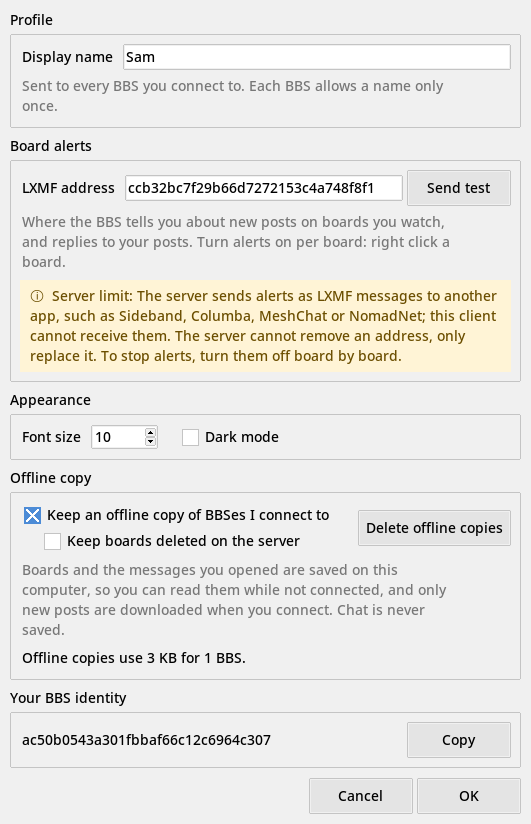
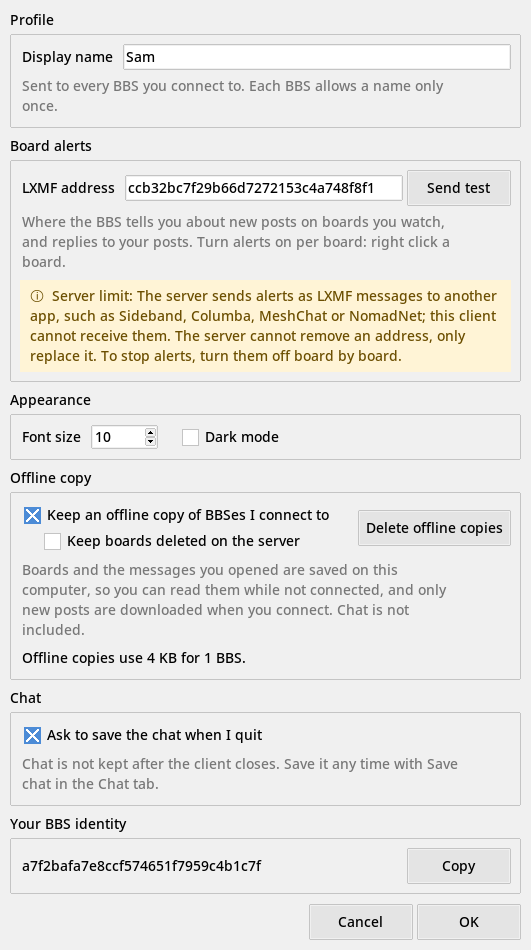
add: Setting to turn off the save chat question on quit
- Settings > Chat: Ask to save the chat when I quit, on by default
- settings screenshot shows the new section
- version 0.8.4

diff --git a/retibbs_gui/gui.py b/retibbs_gui/gui.py
@@ -385,14 +385,25 @@ class SettingsDialog(Dialog):
         ttk.Label(
             copy, style="Muted.TLabel", wraplength=440, justify="left",
             text="Boards and the messages you opened are saved on this computer, so you can read them while not "
-                 "connected, and only new posts are downloaded when you connect. Chat is never saved.",
+                 "connected, and only new posts are downloaded when you connect. Chat is not included.",
         ).grid(row=2, column=0, columnspan=2, sticky="w", pady=(4, 0))
         self.usage_label = ttk.Label(copy)
         self.usage_label.grid(row=3, column=0, columnspan=2, sticky="w", pady=(4, 0))
         self.update_copy_widgets()
 
+        chat = ttk.LabelFrame(body, text="Chat", padding=8)
+        chat.grid(row=4, column=0, sticky="ew", pady=(8, 0))
+        self.ask_save_var = tk.BooleanVar(value=app.settings["ask_save_chat"])
+        ttk.Checkbutton(chat, text="Ask to save the chat when I quit", variable=self.ask_save_var).grid(
+            row=0, column=0, sticky="w"
+        )
+        ttk.Label(
+            chat, style="Muted.TLabel", wraplength=440, justify="left",
+            text="Chat is not kept after the client closes. Save it any time with Save chat in the Chat tab.",
+        ).grid(row=1, column=0, sticky="w", pady=(4, 0))
+
         who = ttk.LabelFrame(body, text="Your BBS identity", padding=8)
-        who.grid(row=4, column=0, sticky="ew", pady=(8, 0))
+        who.grid(row=5, column=0, sticky="ew", pady=(8, 0))
         ttk.Label(who, text=app.identity.hash.hex()).pack(side="left")
         ttk.Button(who, text="Copy", command=lambda: app.copy(app.identity.hash.hex())).pack(side="right")
         self.buttons()
@@ -456,6 +467,7 @@ class SettingsDialog(Dialog):
             cache.delete_all()
         settings["offline_copy"] = copying
         settings["keep_deleted_boards"] = self.keep_var.get()
+        settings["ask_save_chat"] = self.ask_save_var.get()
         settings.save()
         app = self.app
         if copying != was_copying:
@@ -1051,7 +1063,7 @@ class App:
         return True
 
     def quit(self):
-        if self.chat_unsaved:
+        if self.chat_unsaved and self.settings["ask_save_chat"]:
             answer = messagebox.askyesnocancel(
                 APP_TITLE, "Save the chat before quitting? It is not kept after the client closes.", parent=self.root
             )

diff --git a/retibbs_gui/prefs.py b/retibbs_gui/prefs.py
@@ -6,7 +6,7 @@ import os
 CONFIG_DIR = os.path.join(os.environ.get("XDG_CONFIG_HOME") or os.path.expanduser("~/.config"), "retibbs-gui")
 DEFAULTS = {
     "theme": "light", "font_size": 10, "window": "", "sash": 0, "display_name": "", "alert_address": "",
-    "offline_copy": False, "keep_deleted_boards": False, "last_server": "",
+    "offline_copy": False, "keep_deleted_boards": False, "last_server": "", "ask_save_chat": True,
 }
 
 

diff --git a/retibbs_gui/__init__.py b/retibbs_gui/__init__.py
@@ -1,3 +1,3 @@
 """Desktop client for RetiBBS with partyline's look."""
 
-__version__ = "0.8.3"
+__version__ = "0.8.4"

diff --git a/README.md b/README.md
@@ -156,7 +156,7 @@ More:
   the chat, message and log panes copies with Ctrl+C after you select it, or with a right click.
 - Save chat: the Save chat button in the Chat tab, Ctrl+S, or Server > Save chat writes everything in the chat
   pane, all rooms since the client started, to a text file. The chat is not kept after the client closes, so it asks
-  when you quit with chat you have not saved.
+  when you quit with chat you have not saved; turn that off in Settings > Chat.
 - Commands typed in the Chat box that start with `/` go to the server's chat area, for example `/list`.
 - Admins: double click Users to load them; right click a user to make them an admin. Right click Message boards for
   New board, or a board for Delete board.
@@ -388,6 +388,7 @@ Help > About, with the version and credits:
 
 ## Revision history
 
+- 0.8.4: Setting to turn off the question about saving the chat when you quit
 - 0.8.3: Save chat to a text file; asks before quitting with unsaved chat
 - 0.8.2: Copy address button in the toolbar and the Connect dialog; text in the chat, message and log panes
   can be copied with Ctrl+C or a right click
